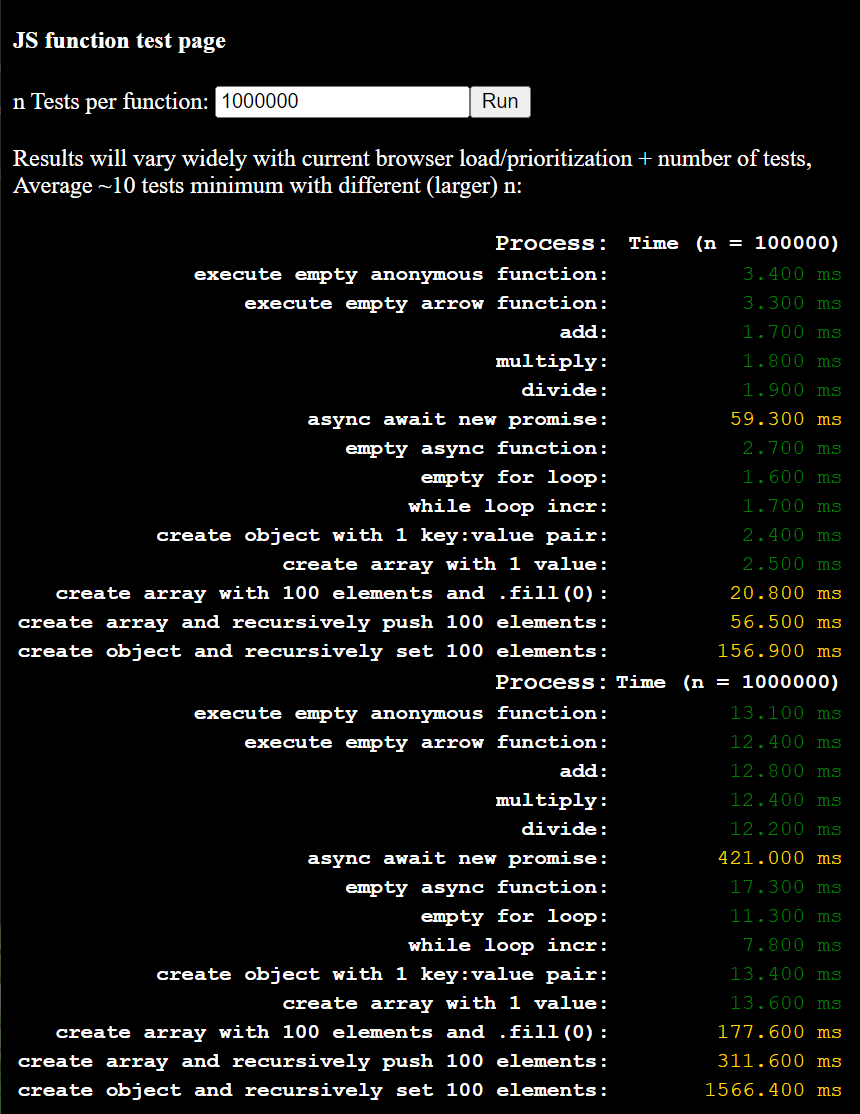
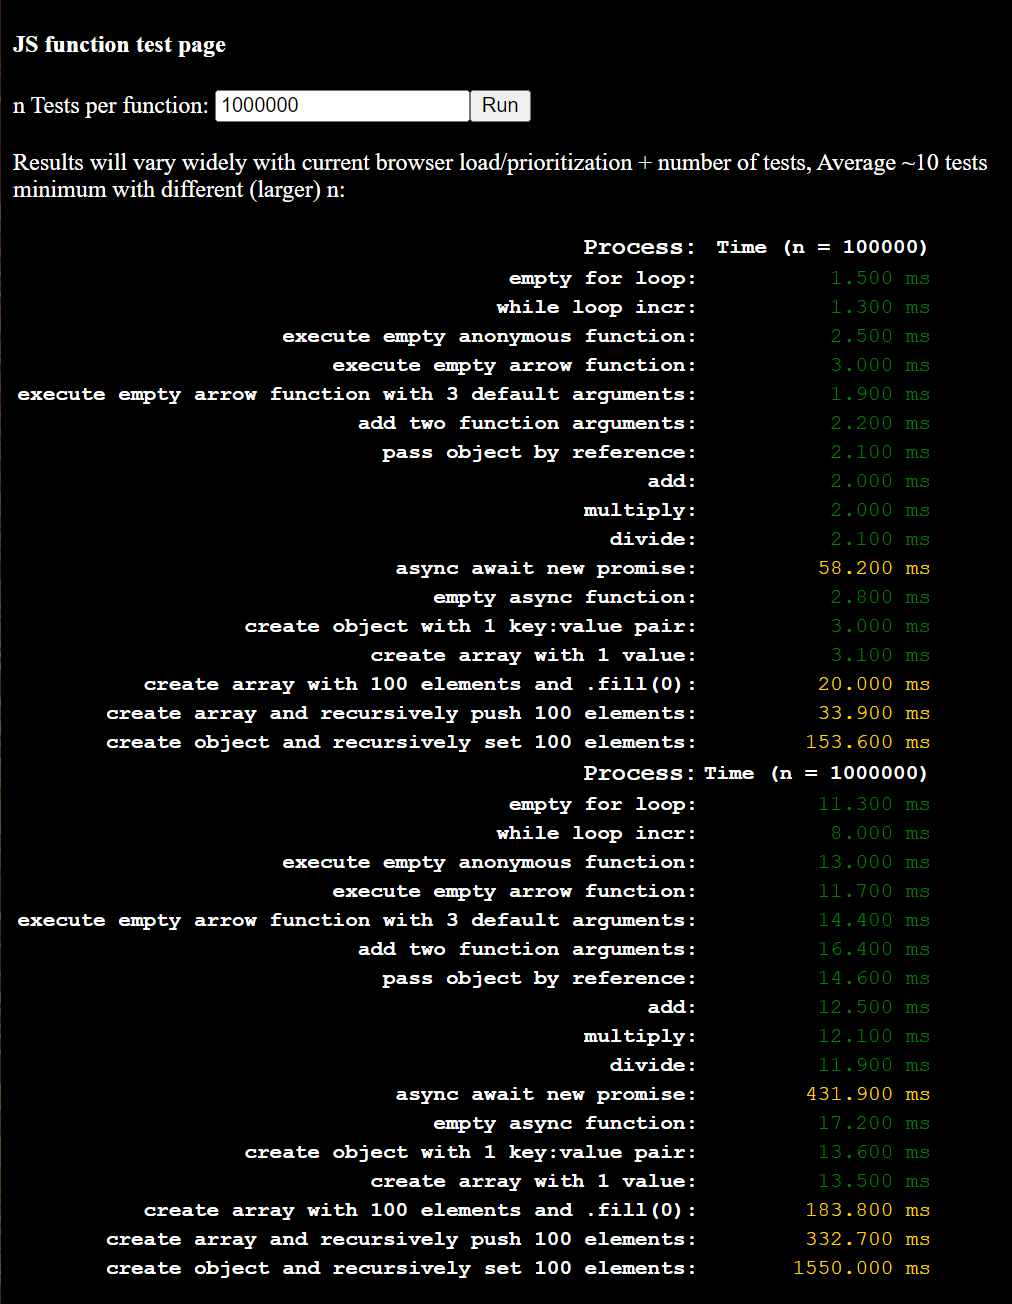
Add files via upload

Changed region(s): [[0.0, 0.0305, 0.9674, 1.0], [0.1209, 0.2747, 0.2419, 0.3052], [0.0302, 0.2747, 0.0907, 0.3052]]

diff --git a/js_speed_test.html b/js_speed_test.html
@@ -36,62 +36,18 @@
                 document.getElementById('msg').innerHTML = 'Awaiting results, view console for progress... Keep this window prioritized, this could take a minute...';
 
                 function speedTest(title='test',fn=()=>{},t=n) { //wraps a function in a for loop
-                    let now = performance.now();
                     console.time(title);
+                    let now = performance.now();
                     for(let i = 0; i < t; i++) {
                         fn();
                     }
                     console.timeEnd(title);
-                    return performance.now()-now;
+                    return performance.now() - now;
                 }
 
                 await delay(1000); //make sure the html update doesn't impact the speed test
 
-                title = `execute empty anonymous function`
-                testResults[title] = speedTest(title,function(){},n);
-
-                await delay();
-
-                title = `execute empty arrow function`
-                testResults[title] = speedTest(title,()=>{},n);
-
-                await delay();
-
-                title = `add`;
-                testResults[title] = speedTest(title,function(){return x = 2 + 2;},n)
-
-                await delay();
-
-                title = `multiply`;
-                testResults[title] = speedTest(title,function(){return x = 2 * 2;},n)
-
-                await delay();
-
-                title = `divide`;
-                testResults[title] = speedTest(title,function(){return x = 4 / 2;},n);
-
-                await delay();
-
-                title = `async await new promise`;
-                testResults[title] = speedTest(
-                    title,
-                    async function(){
-                    return await new Promise(function(resolve, reject){
-                        resolve(0);
-                    })
-                },n);
-
-                await delay();
-
-                title = `empty async function`;
-                testResults[title] = speedTest(
-                    title,
-                    async function(){},
-                    n
-                );
-
-                await delay();
-
+                
                 title = `empty for loop`
                 now = performance.now();
                 console.time(title);
@@ -112,6 +68,72 @@
                 }
                 console.timeEnd(title);
                 testResults[title] = performance.now() - now;
+
+                await delay();
+
+
+
+                title = `execute empty anonymous function`
+                testResults[title] = speedTest(title,function(){},n);
+
+                await delay();
+
+                title = `execute empty arrow function`
+                testResults[title] = speedTest(title,()=>{},n);
+
+                await delay();
+
+                title = `execute empty arrow function with 3 default arguments`
+                testResults[title] = speedTest(title,(a=1,b=2,c=3)=>{},n);
+
+                await delay();
+
+                
+                title = `add two function arguments`;
+                testResults[title] = speedTest(title,function(a=1,b=2){return x = a + b;},n);
+
+                await delay();
+
+
+                title = `pass object by reference`;
+                let ref = {};
+                testResults[title] = speedTest(title,function(refin=ref){let x = refin; return x;},n);
+
+                await delay();
+
+                title = `add`;
+                testResults[title] = speedTest(title,function(){return x = 2 + 2;},n)
+
+                await delay();
+
+                title = `multiply`;
+                testResults[title] = speedTest(title,function(){return x = 2 * 2;},n)
+
+                await delay();
+
+                title = `divide`;
+                testResults[title] = speedTest(title,function(){return x = 4 / 2;},n);
+
+                await delay();
+
+
+                title = `async await new promise`;
+                testResults[title] = speedTest(
+                    title,
+                    async function(){
+                    return await new Promise(function(resolve, reject){
+                        resolve(0);
+                    })
+                },n);
+
+                await delay();
+
+                title = `empty async function`;
+                testResults[title] = speedTest(
+                    title,
+                    async function(){},
+                    n
+                );
 
                 await delay();
 
@@ -138,42 +160,29 @@
 
 
                 title = `create array with 100 elements and .fill(0)`;
-                now = performance.now();
-                console.time(title);
-                for(let i = 0; i < n; i++) {
-                    let j = new Array(100).fill(0);
-                }
-                console.timeEnd(title);
-                testResults[title] = performance.now() - now;
+                testResults[title] = speedTest(title, function(){ let j = new Array(100).fill(0);})
 
                 await delay();
 
                 title = `create array and recursively push 100 elements`;
-                now = performance.now();
-                console.time(title);
-                for(let i = 0; i < n; i++) {
+                testResults[title] = speedTest(title, function() {
+                    
                     let o = [];
                     for(let j = 0; j < 100; j++) {
                         o.push(j);
                     }
-
-                }
-                console.timeEnd(title);
-                testResults[title] = performance.now() - now;
+                    
+                })
 
                 await delay();
 
                 title = `create object and recursively set 100 elements`;
-                now = performance.now();
-                console.time(title);
-                for(let i = 0; i < n; i++) {
+                testResults[title] = speedTest(title, function() {
                     let o = {};
                     for(let j = 0; j < 100; j++) {
                         o[j] = j;
                     }
-                }
-                console.timeEnd(title);
-                testResults[title] = performance.now() - now;
+                })
 
                 await delay();
 
